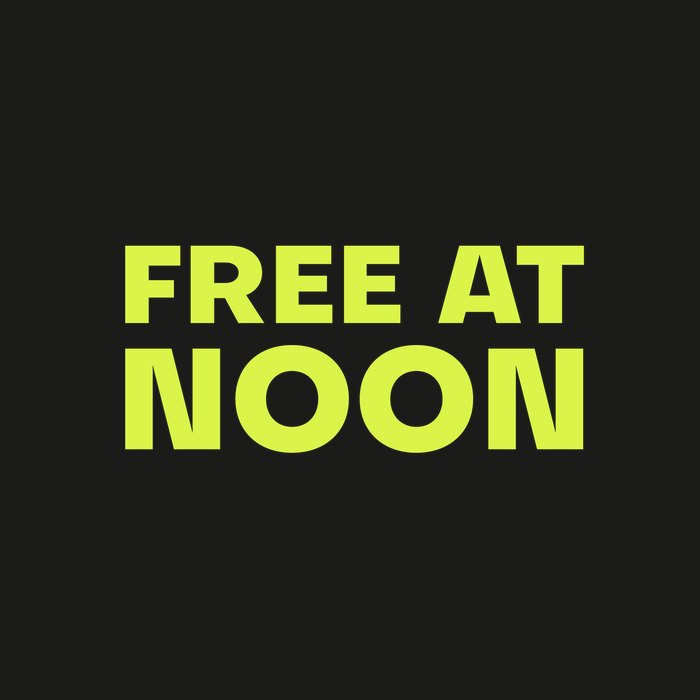
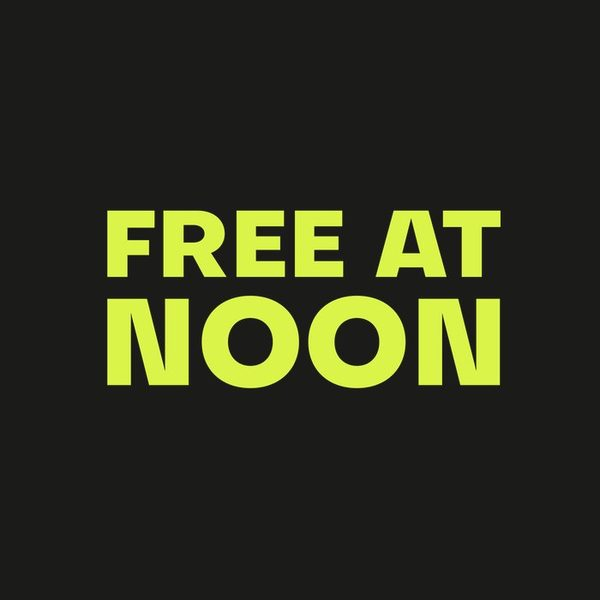
Accessibility checks on every screen; sturdier at large text; store shots
- An axe check (WCAG 2.1 A and AA) of every screen and the sheets and
  panels over them, in light and dark, at phone and desktop sizes, with
  concerts, videos and an archive to check: no problems found. It runs with
  the other browser tests.
- Large text: tab bar names stay whole on one line, and tab rows scroll
  sideways rather than wrapping.
- The welcome's shows have no box around them: the artwork, ringed in the
  accent once followed.
- The concert calendar, unavailable, also points to the calendar on
  xpn.org.
- tools/capture-screens.mjs takes the raw store screenshots (iPhone 6.9"
  and iPad 13", light), including the radio alarm ringing.
- Free at Noon's artwork at 600px like the rest.

Claude-Session: https://claude.ai/code/session_01D9nLoWfAPWS4Bpww4KtqZg

diff --git a/styles/welcome.css b/styles/welcome.css
@@ -52,16 +52,18 @@
   display: grid;
   gap: 8px;
   align-content: start;
-  padding: 8px 8px 12px;
-  border: 1.5px solid var(--border);
-  border-radius: 12px;
   text-align: left;
 }
+/* No box around a show: its artwork, and once followed, a ring in the
+   accent around it and a filled check. */
 .welcome-show > img {
   width: 100%;
   aspect-ratio: 1;
   object-fit: cover;
-  border-radius: 7px;
+  border-radius: 10px;
+  outline: 2.5px solid transparent;
+  outline-offset: 2px;
+  transition: outline-color 0.15s;
 }
 .welcome-show-text {
   display: grid;
@@ -78,8 +80,8 @@
 }
 .welcome-check {
   position: absolute;
-  top: 14px;
-  right: 14px;
+  top: 8px;
+  right: 8px;
   display: grid;
   place-items: center;
   width: 28px;
@@ -89,8 +91,8 @@
   color: var(--text);
   box-shadow: 0 2px 8px rgb(0 0 0 / 0.25);
 }
-.welcome-show.followed {
-  border-color: var(--accent);
+.welcome-show.followed > img {
+  outline-color: var(--accent);
 }
 .welcome-show.followed .welcome-check {
   background: var(--action);

diff --git a/styles/layout.css b/styles/layout.css
@@ -721,7 +721,6 @@ h1 {
   .mobile-nav button {
     display: flex;
     min-width: 0;
-    overflow-wrap: anywhere;
     flex: 1;
     height: var(--tabbar-h);
     flex-direction: column;
@@ -733,6 +732,15 @@ h1 {
   }
   .mobile-nav button.active {
     color: var(--accent);
+  }
+  /* Tab names stay whole and on one line, as a phone's own tab bars keep
+     them, however large the text: capped to the width of the screen. */
+  .mobile-nav button > span {
+    max-width: 100%;
+    overflow: hidden;
+    text-overflow: ellipsis;
+    white-space: nowrap;
+    font-size: min(1em, 3.6vw);
   }
 }
 @media (prefers-reduced-motion: reduce) {

diff --git a/screens/ConcertsScreen.jsx b/screens/ConcertsScreen.jsx
@@ -158,7 +158,11 @@ export function ConcertsScreen({ result }) {
         action="Try again"
         onAction={result.retry}
       >
-        Check your connection and try again.
+        Check your connection and try again, or see the calendar on{" "}
+        <a href={CALENDAR_URL} target="_blank" rel="noreferrer">
+          xpn.org
+        </a>
+        .
       </Empty>
     );
   } else if (!concerts.length) {

diff --git a/styles/states.css b/styles/states.css
@@ -269,3 +269,11 @@
   color: var(--accent-strong);
   font-weight: 650;
 }
+
+/* A link in an empty state's line (the calendar on xpn.org). */
+.empty-state p a {
+  color: var(--accent-strong);
+  font-weight: 650;
+  text-decoration: underline;
+  text-underline-offset: 3px;
+}

diff --git a/styles/controls.css b/styles/controls.css
@@ -16,7 +16,7 @@ h1.sr-only + :is(.toolbar, .concert-filters) {
 }
 .segmented {
   display: inline-flex;
-  flex-wrap: wrap;
+  flex-wrap: nowrap;
   border-bottom: 1px solid var(--border);
 }
 .segmented button {

diff --git a/README.md b/README.md
@@ -23,7 +23,7 @@ npm run check      # lint, formatting, tests and a production build
 | `npm run check`              | Everything CI runs except `npm audit`, in one go          |
 | `npm run cap:sync`           | Build and copy into the native projects                   |
 
-End-to-end tests (`tests/e2e`, Playwright) play the station, change station, save a song (and heart one with a double tap on its artwork) and find it in Favorites, keep each screen's place between tabs, open and follow a show, follow a show link, keep the dark theme, and open every screen without an error, at phone and desktop sizes. Every outside service is answered by fixtures (`tests/e2e/fixtures.mjs`; the streams are a few seconds of silence), so they run offline. To use a browser already installed, set `PLAYWRIGHT_CHROMIUM` to its path; otherwise `npx playwright install chromium` once.
+End-to-end tests (`tests/e2e`, Playwright) play the station, change station, save a song (and heart one with a double tap on its artwork) and find it in Favorites, keep each screen's place between tabs, open and follow a show, pass an accessibility check (axe, WCAG 2.1 AA) on every screen in light and dark, follow a show link, keep the dark theme, and open every screen without an error, at phone and desktop sizes. Every outside service is answered by fixtures (`tests/e2e/fixtures.mjs`; the streams are a few seconds of silence), so they run offline. To use a browser already installed, set `PLAYWRIGHT_CHROMIUM` to its path; otherwise `npx playwright install chromium` once.
 
 CI runs `lint`, `format:check`, `test`, the end-to-end tests and `build` on every push and pull request, plus `npm audit` of everything the app ships (a high or critical advisory fails a branch's checks, and is flagged on `main` without blocking the preview). Pushes to `main` also deploy the preview to GitHub Pages:
 
